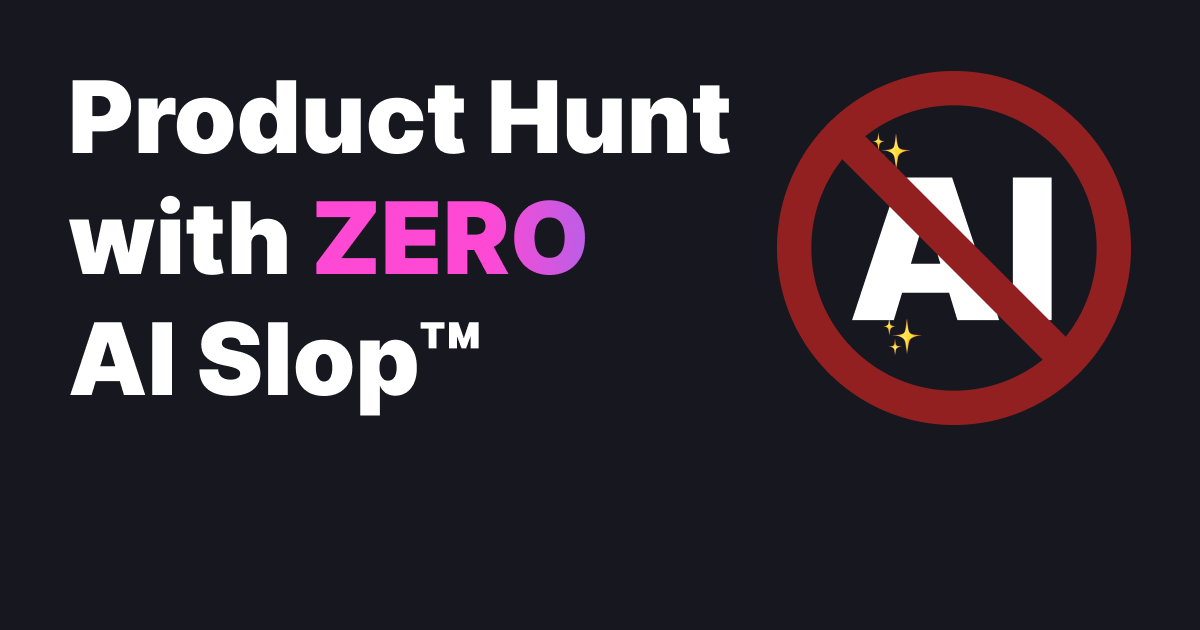
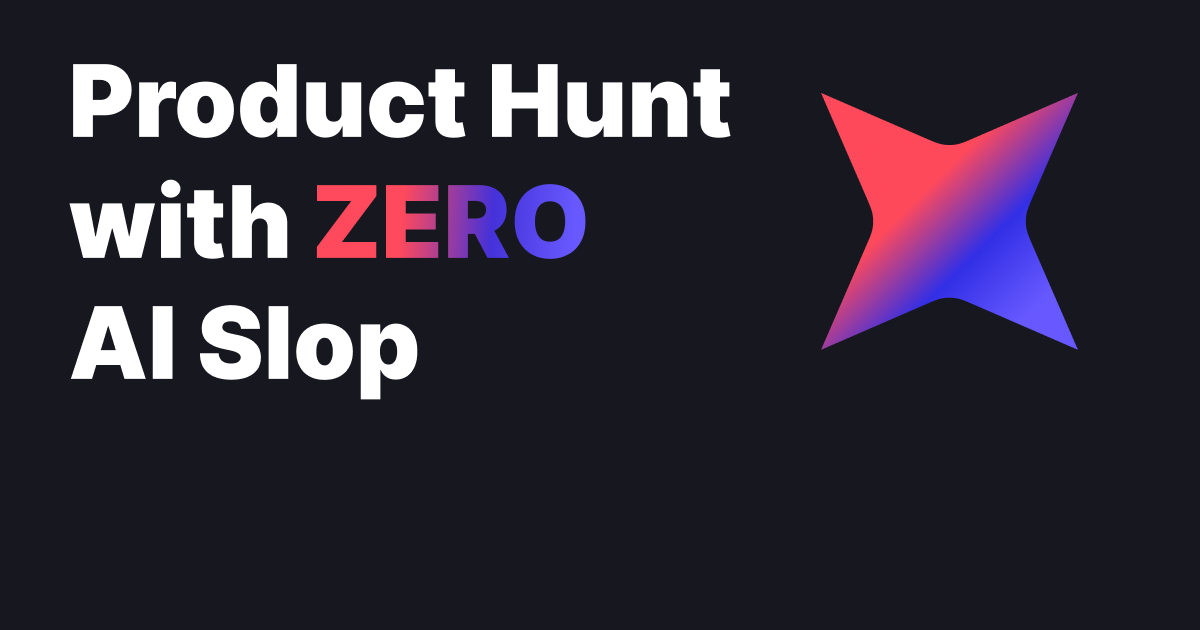
Update OG

diff --git a/apps/web/src/app/page.tsx b/apps/web/src/app/page.tsx
@@ -12,9 +12,9 @@ export const dynamic = "force-dynamic";
 export const revalidate = 300; // TODO: fix this for launch to be 1 hour, revalidate at most every hour
 
 export const generateMetadata = generateOGHuntMetadata({
-  title: "OGHUNT | Product Hunt with ZERO AI Slop Powered By AI™",
+  title: "OGHUNT | Product Hunt with ZERO AI Slop Powered By AI",
   description:
-    "Product Hunt with ZERO AI Slop™ which uses AI to filter out AI projects. You no longer have to worry about AI projects cluttering your feed",
+    "Product Hunt with ZERO AI Slop which uses AI to filter out AI projects. You no longer have to worry about AI projects cluttering your feed",
 });
 
 export default async function Page() {
@@ -25,7 +25,7 @@ export default async function Page() {
     <main className="flex min-h-screen w-full flex-col items-center px-4 pt-10 md:px-8">
       <JsonLd posts={posts} />
       <div className="flex flex-col gap-4">
-        <h1 className="mb-4 text-4xl font-bold md:text-5xl">Product Hunt with ZERO AI Slop™</h1>
+        <h1 className="mb-4 text-4xl font-bold md:text-5xl">Product Hunt with ZERO AI Slop</h1>
       </div>
 
       <section className="max-w-3xl mx-auto my-6 text-left" id="about-oghunt">

diff --git a/apps/web/src/app/metadata.ts b/apps/web/src/app/metadata.ts
@@ -50,7 +50,7 @@ export function generateOGHuntMetadata({
             url: `${OG_URL}/api/og/${cacheKey}.png`,
             width: 1200,
             height: 630,
-            alt: "OGHUNT - Product Hunt with ZERO AI Slop™",
+            alt: "OGHUNT - Product Hunt with ZERO AI Slop",
           },
         ],
         locale: "en-US",
@@ -67,7 +67,7 @@ export function generateOGHuntMetadata({
             url: `${OG_URL}/api/og/${cacheKey}.png`,
             width: 1200,
             height: 630,
-            alt: "OGHUNT - Product Hunt with ZERO AI Slop™",
+            alt: "OGHUNT - Product Hunt with ZERO AI Slop",
           },
         ],
       },

diff --git a/apps/web/src/app/homies/page.tsx b/apps/web/src/app/homies/page.tsx
@@ -13,7 +13,7 @@ export default function Component() {
   return (
     <div className="from-background to-muted flex min-h-screen flex-col items-center bg-gradient-to-b p-1 text-center">
       <Link href="/" className="mt-4 font-bold text-2xl">
-        ← Back to Product Hunt with ZERO AI Slop™
+        ← Back to Product Hunt with ZERO AI Slop
       </Link>
       <h1 className="text-white my-8 text-6xl font-extrabold">The Homies Projects</h1>
 

diff --git a/apps/web/src/app/component/json-ld.tsx b/apps/web/src/app/component/json-ld.tsx
@@ -9,7 +9,7 @@ export function JsonLd({ posts }: JsonLdProps) {
     "@context": "https://schema.org",
     "@type": "WebSite",
     name: "OGHUNT",
-    description: "Product Hunt with ZERO AI Slop™ which uses AI to filter out AI projects",
+    description: "Product Hunt with ZERO AI Slop which uses AI to filter out AI projects",
     url: "https://oghunt.com",
     potentialAction: {
       "@type": "SearchAction",

diff --git a/apps/web/src/app/api/og/[reqid]/route.tsx b/apps/web/src/app/api/og/[reqid]/route.tsx
@@ -49,7 +49,7 @@ export async function GET() {
         <div
           style={{
             width: `${aiPercentage}%`,
-            backgroundImage: "linear-gradient(90deg, #fda4af 20%, #fb923c 100%)",
+            backgroundColor: "#ff495b",
           }}
           tw="flex h-full rounded-l-3xl"
         >
